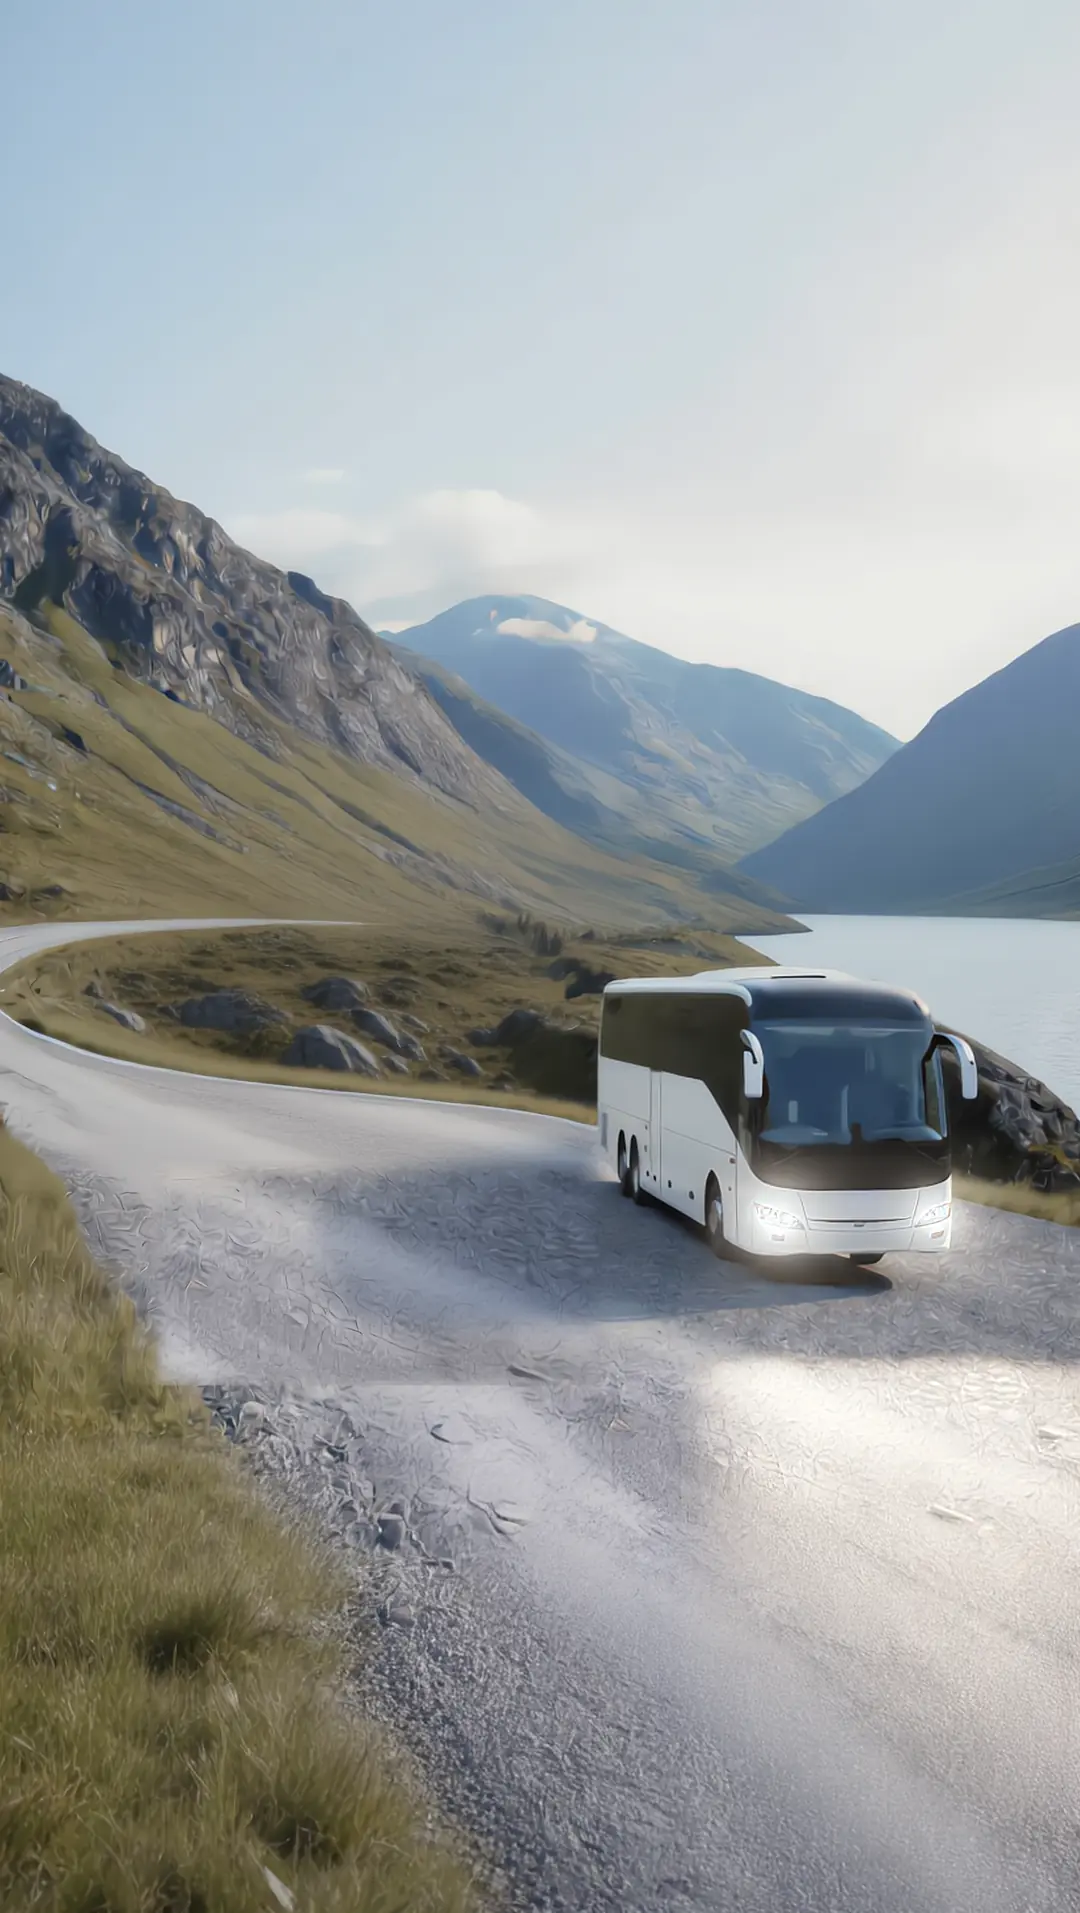
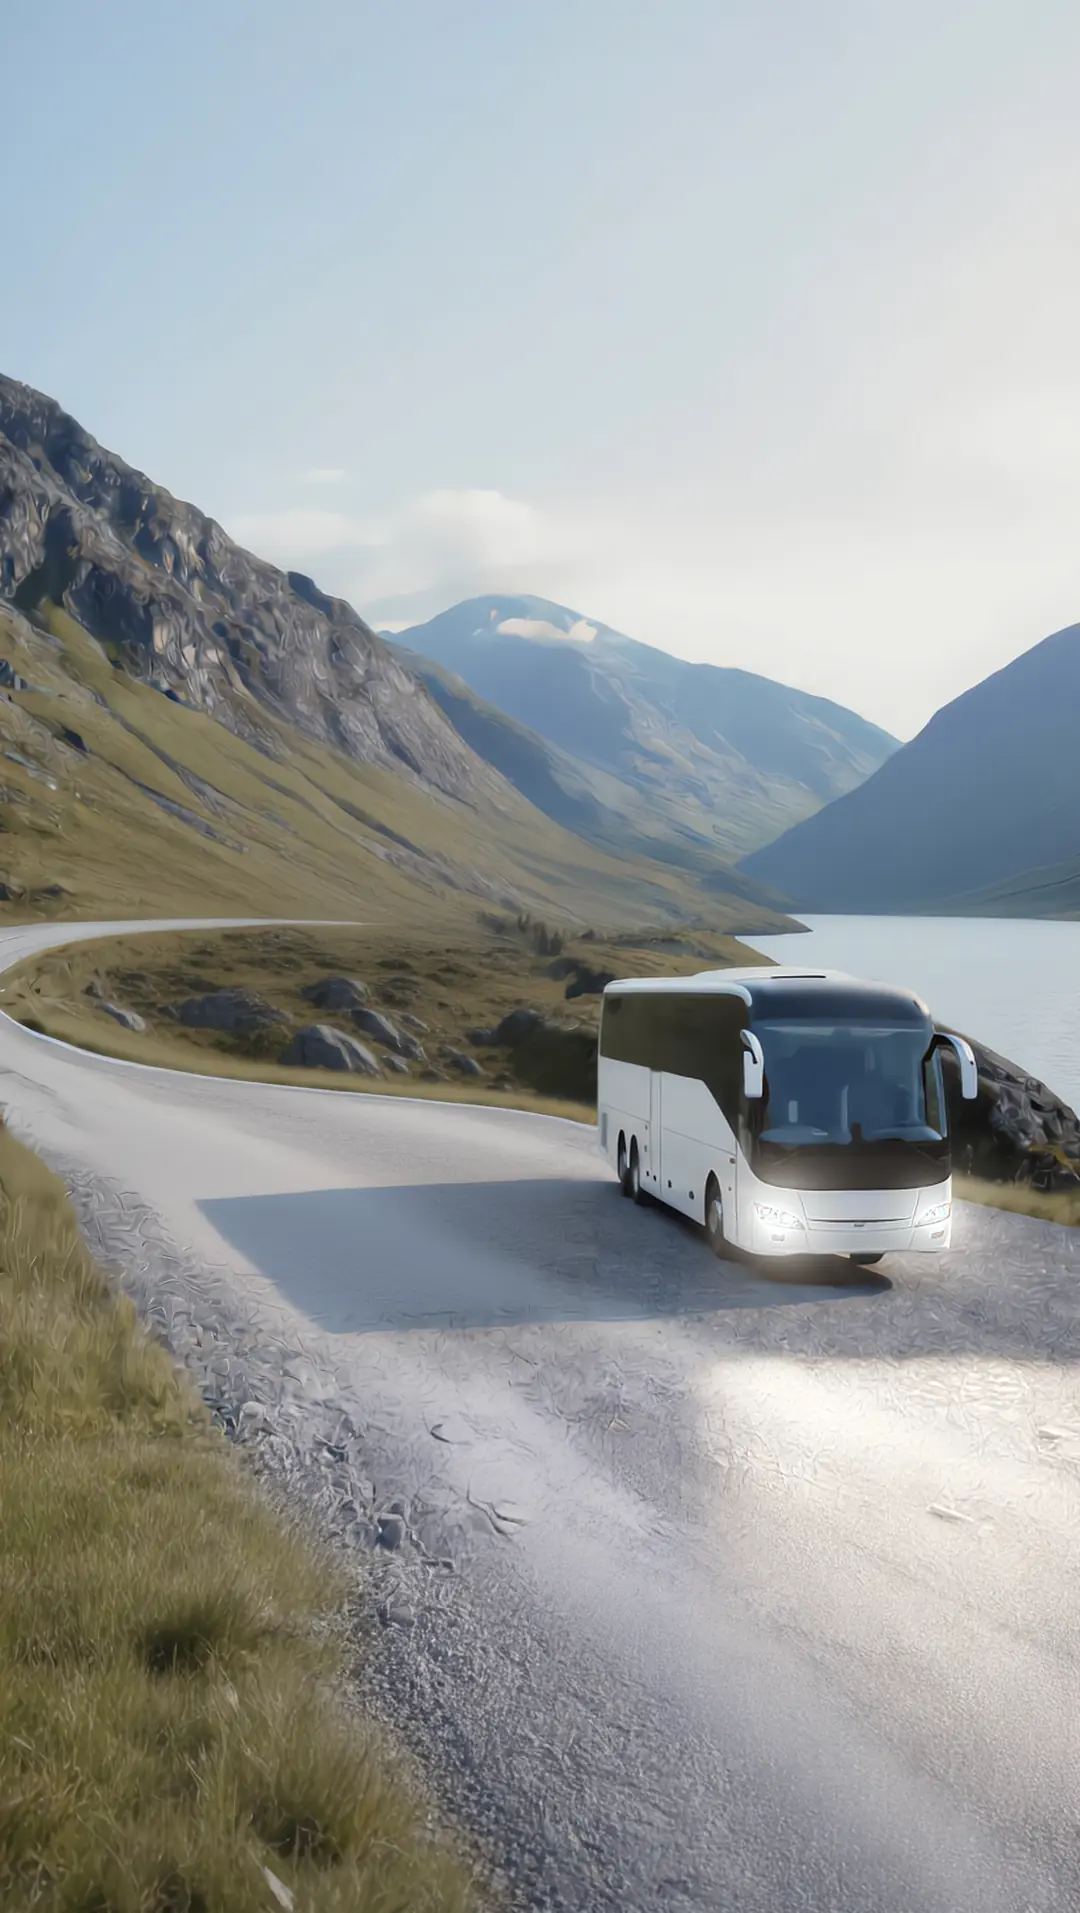
Stop patching the road where the truck vanishes on phones
When the bus was chosen on a phone, the road in place of the truck was a
patch of road copied from elsewhere, which looked distorted. Now that area
comes straight from intro-mobile-only-bus.png, exactly like the desktop bus
layer does with its own render.

Claude-Session: https://claude.ai/code/session_01QnLGxmMJTS6H4BxBkXsJMw

Changed region(s): [[0.1222, 0.586, 0.55, 0.7402]]

diff --git a/CLAUDE.md b/CLAUDE.md
@@ -117,8 +117,9 @@
   Как на ПК, все слои строятся от ОДНОГО цельного кадра — `intro-mobile-photo.png` (увеличен и подогнан масштабом
   и сдвигом): в нём правильная тень автобуса и чистые края машин. Склейки из разных кадров давали светлые полосы
   и «криво вырезанный» автобус — не возвращать. В «только фуре» заменена лишь область автобуса и его тени,
-  в «только автобусе» — лишь область фуры (дорога без нарисованной нейросетью тени-прямоугольника + мягкая тень
-  автобуса той же формы и цвета, что на общем кадре, к дальнему концу прозрачнее). Фары — прибавка света из кадров
+  в «только автобусе» — лишь область фуры, взятая из `intro-mobile-only-bus.png` как есть (с тенью
+  нейросети, как на ПК). Заплатки дороги на месте фуры выглядели искажённо — не возвращать; если тень мешает,
+  перегенерировать `intro-mobile-only-bus.png`. Фары — прибавка света из кадров
   с горящими фарами. Общий кадр мягче остальных: если появится `intro-mobile-photo.png` в 1536×2720, станет резче.
 - `build.js` дописывает к картинкам `/choose/` `?v=<хэш>`: после пересборки кадров браузер не покажет старые из кэша.
 - Звук: `src/choose/media/engine-truck.mp3` и `engine-bus.mp3`. Подключаются, только если файл есть: `build.js`
